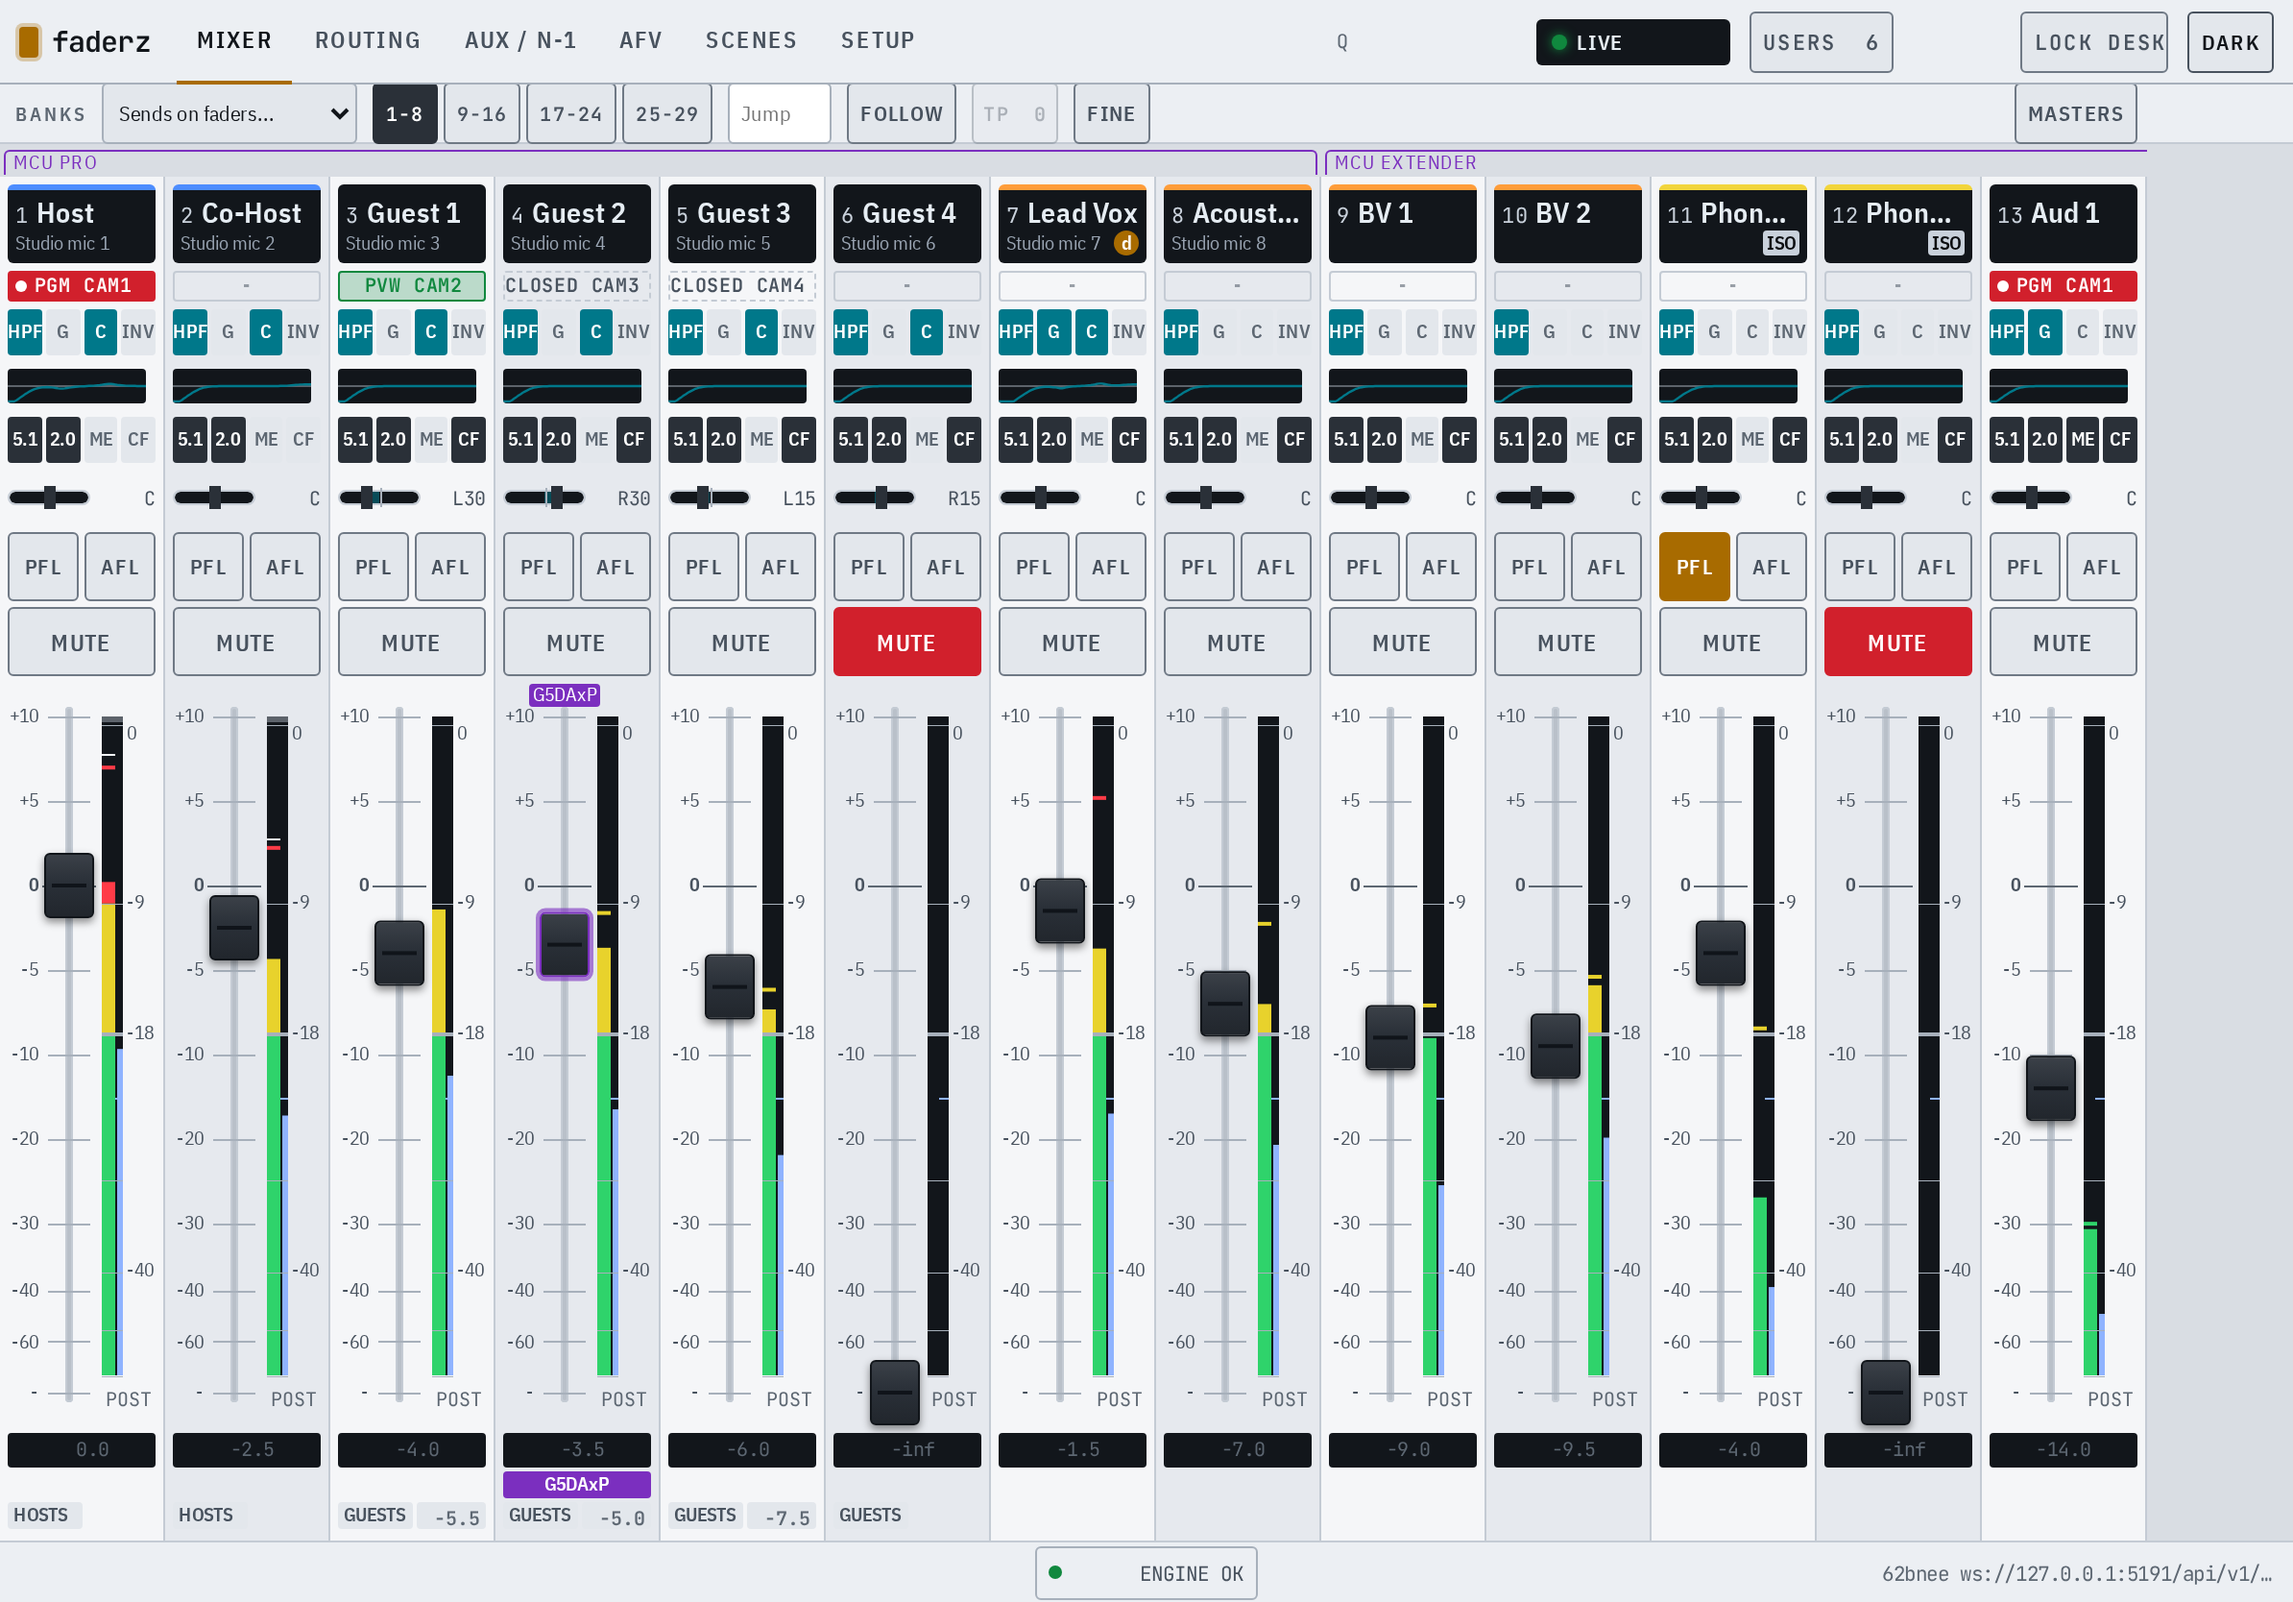
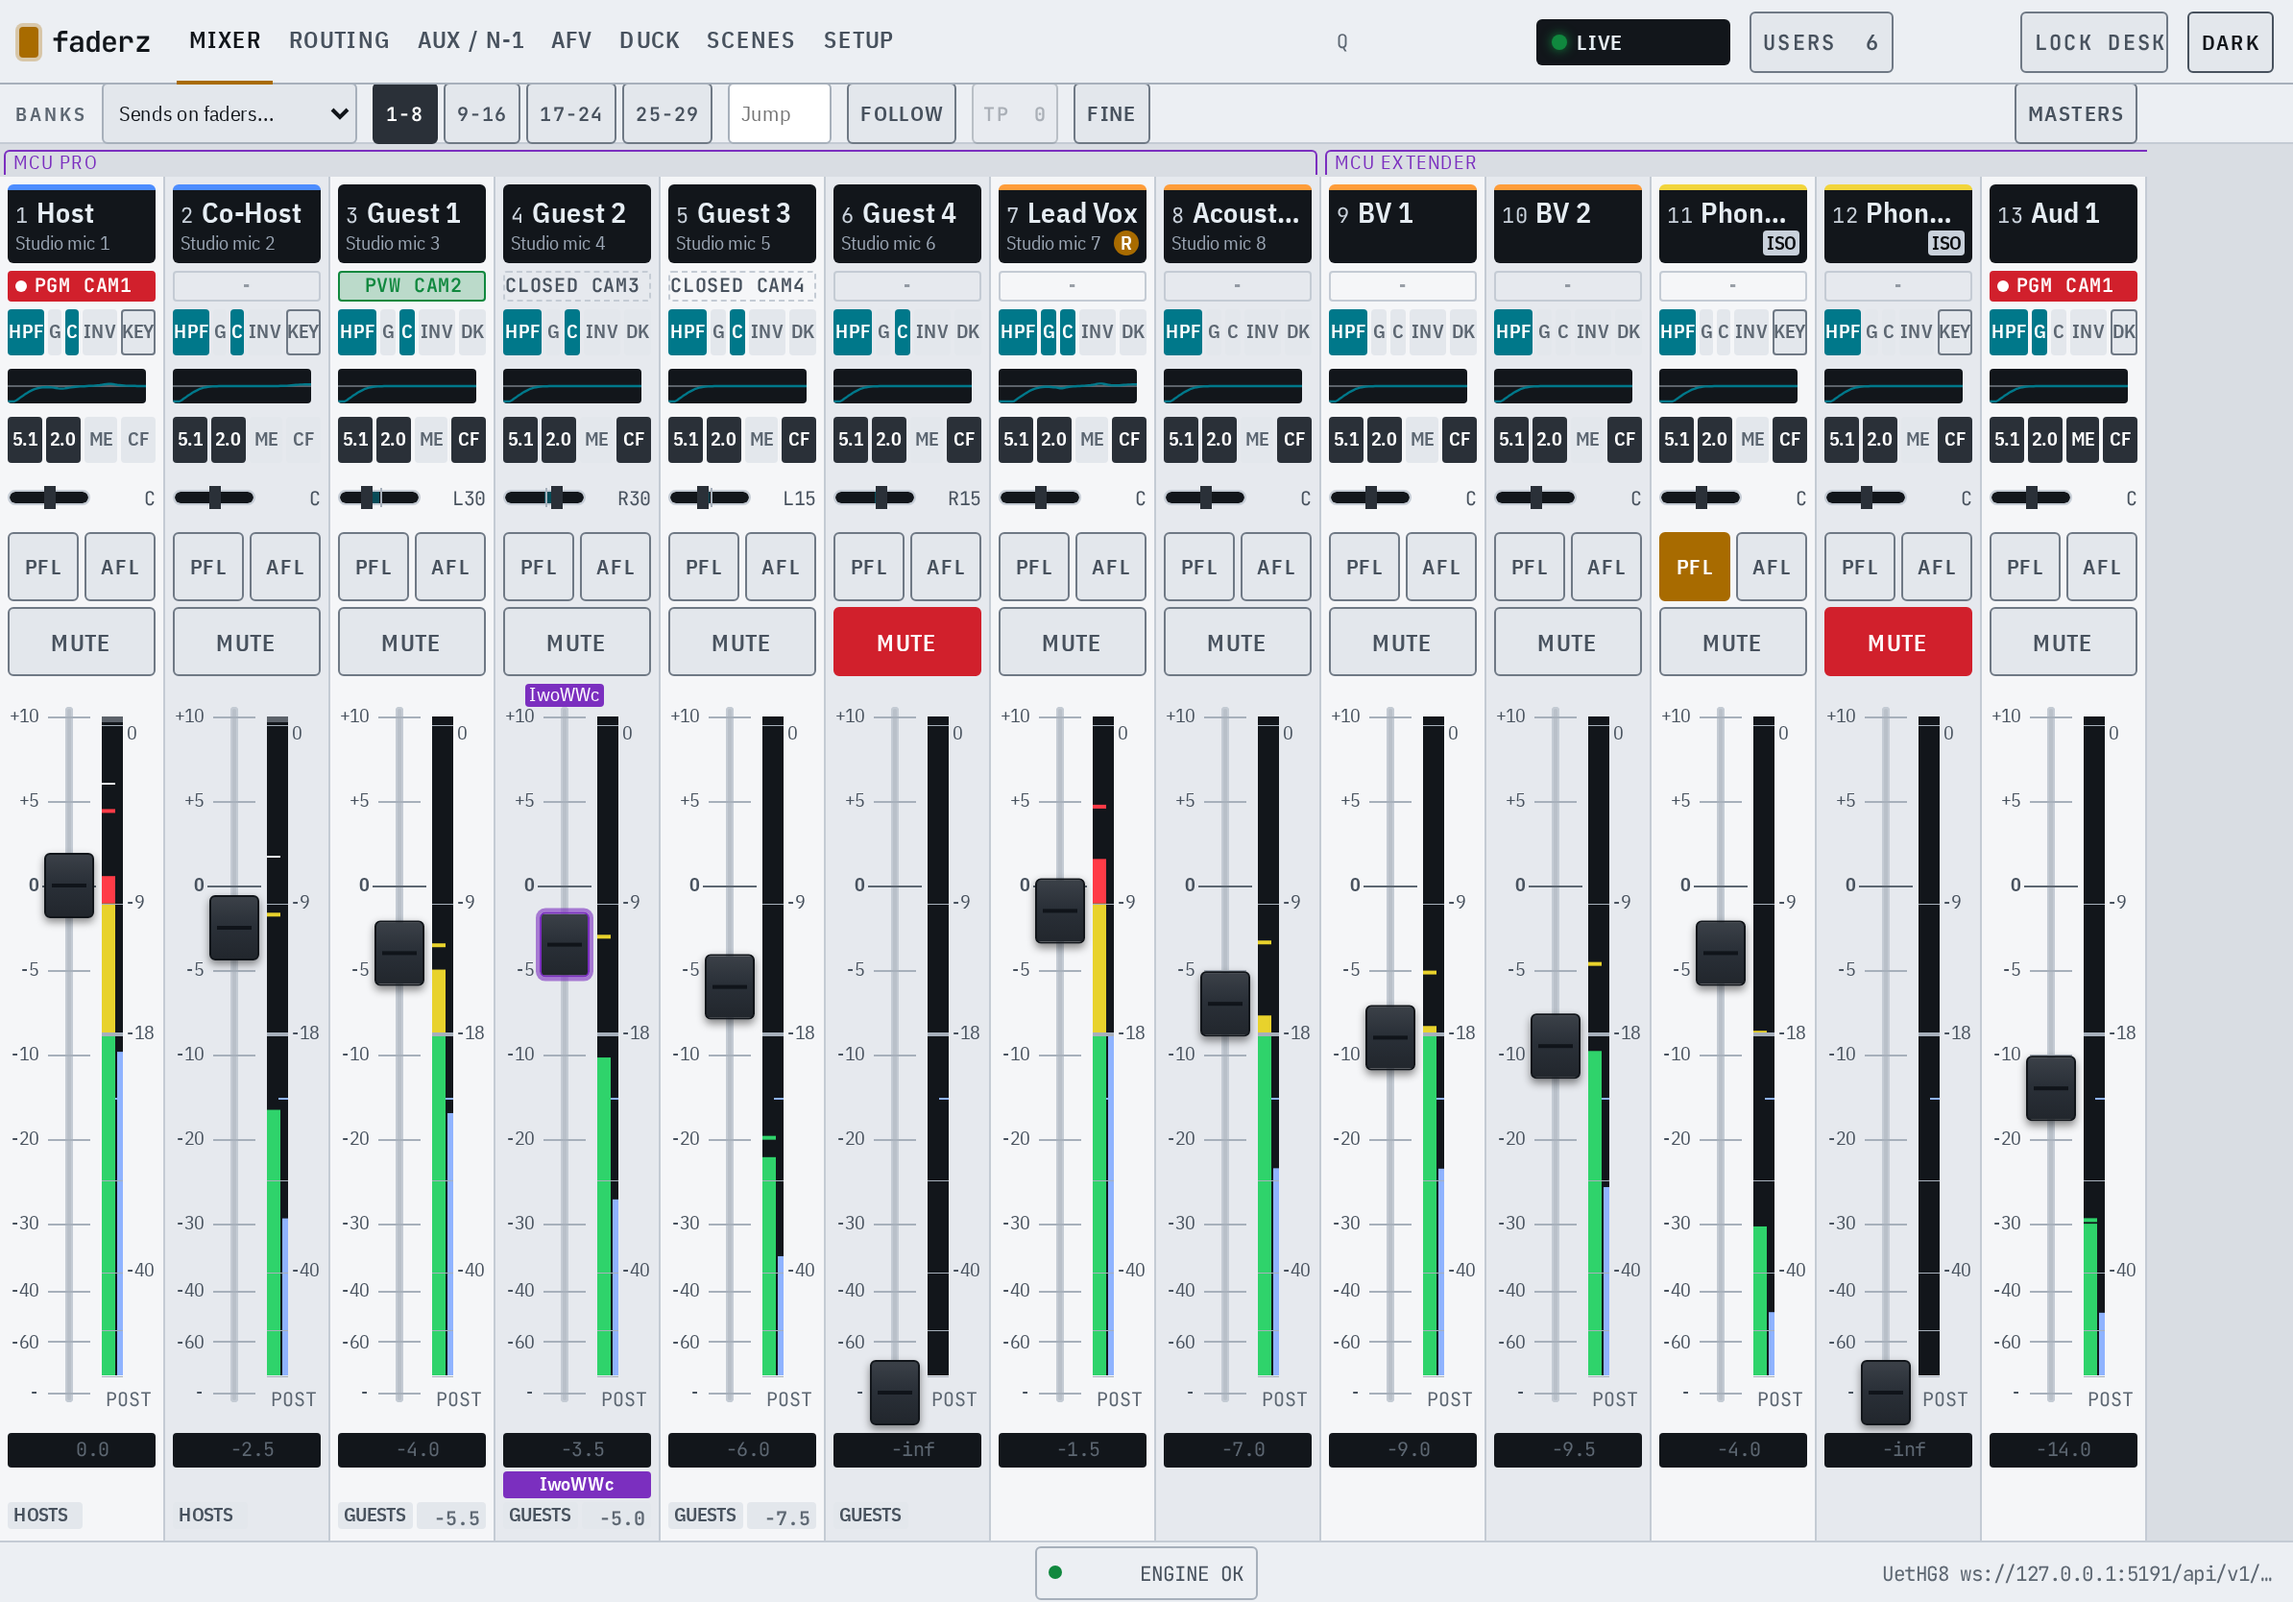
docs: show the duck view and tiles in the README
The console now has a seventh view and duck tiles over the masters,
which every mixer screenshot shows, so the screenshots are taken again
from the same fixture, with two of the duck view and of a held and a
latched group.

diff --git a/web/tests/screenshots/readme.spec.ts b/web/tests/screenshots/readme.spec.ts
@@ -70,6 +70,25 @@ test('README screenshots', async ({ browser }) => {
   const y = top.y + top.height;
   await alex.screenshot({ path: `${OUT}/afv-tally.png`, clip: { x: 0, y, width: table.x + table.width + 16, height: 720 - y } });
 
+  // Sam latches Remote comm on and holds Commentary in.
+  await sam.getByTestId('duck-key-remote').click();
+  const duck = (await sam.getByTestId('duck-key-comm').boundingBox())!;
+  await sam.mouse.move(duck.x + duck.width / 2, duck.y + duck.height / 2);
+  await sam.mouse.down();
+  await view(alex, 'MIXER');
+  await expect(alex.getByTestId('duck-lamp-comm')).toHaveText('DUCK HELD');
+  await expect(alex.getByTestId('duck-lamp-remote')).toHaveText('DUCK ON');
+  await alex.waitForTimeout(1000);
+  const band = alex.getByRole('group', { name: 'Duck groups' });
+  await alex.screenshot({ path: `${OUT}/duck-tiles.png`, clip: await around(alex, [band, alex.locator('[data-master="pgm51"]')], 8) });
+
+  await view(alex, 'DUCK');
+  await alex.waitForTimeout(500);
+  const ducks = (await alex.getByRole('table', { name: 'Duck groups' }).boundingBox())!;
+  await alex.screenshot({ path: `${OUT}/duck-view.png`, clip: { x: 0, y, width: ducks.x + ducks.width + 16, height: 860 - y } });
+  await sam.mouse.up();
+  await sam.getByTestId('duck-key-remote').click();
+
   await view(alex, 'SCENES');
   await alex.waitForTimeout(500);
   await alex.screenshot({ path: `${OUT}/scenes.png`, clip: { x: 0, y: 0, width: 1160, height: 560 } });

diff --git a/README.md b/README.md
@@ -61,8 +61,8 @@ the scene crossfade time.
 
 ## The console
 
-The web console has six views: MIXER, ROUTING, AUX / N-1, AFV, SCENES and
-SETUP. It runs in a desktop browser, on a tablet and on a phone, in a
+The web console has seven views: MIXER, ROUTING, AUX / N-1, AFV, DUCK,
+SCENES and SETUP. It runs in a desktop browser, on a tablet and on a phone, in a
 dark or a light theme. `web/README.md` documents it in detail: its
 connection handling, sign-in, keyboard control and tests.
 
@@ -82,6 +82,15 @@ The AFV view shows the tally the vision switcher reports and which
 channels follow which camera.
 
 ![The AFV view with CAM1 on programme and CAM2 on preview, and the channels following them](docs/screenshots/afv-tally.png)
+
+Duck groups lower ambience and music under commentary. The DUCK view
+sets up each group's triggers, targets with their depth, destinations
+and detector; a tile per group in the masters latches, holds, bypasses
+and sets the threshold on air.
+
+![The DUCK view with the Commentary and Remote comm groups: mode, detector, presets, destinations, and the trigger, target and depth of every channel](docs/screenshots/duck-view.png)
+
+![The duck tiles over the masters: Commentary held by an operator, Remote comm latched on](docs/screenshots/duck-tiles.png)
 
 Scenes are stored and recalled from the SCENES view; recall-safe groups
 keep chosen parameters of a channel out of every recall. The view's note
